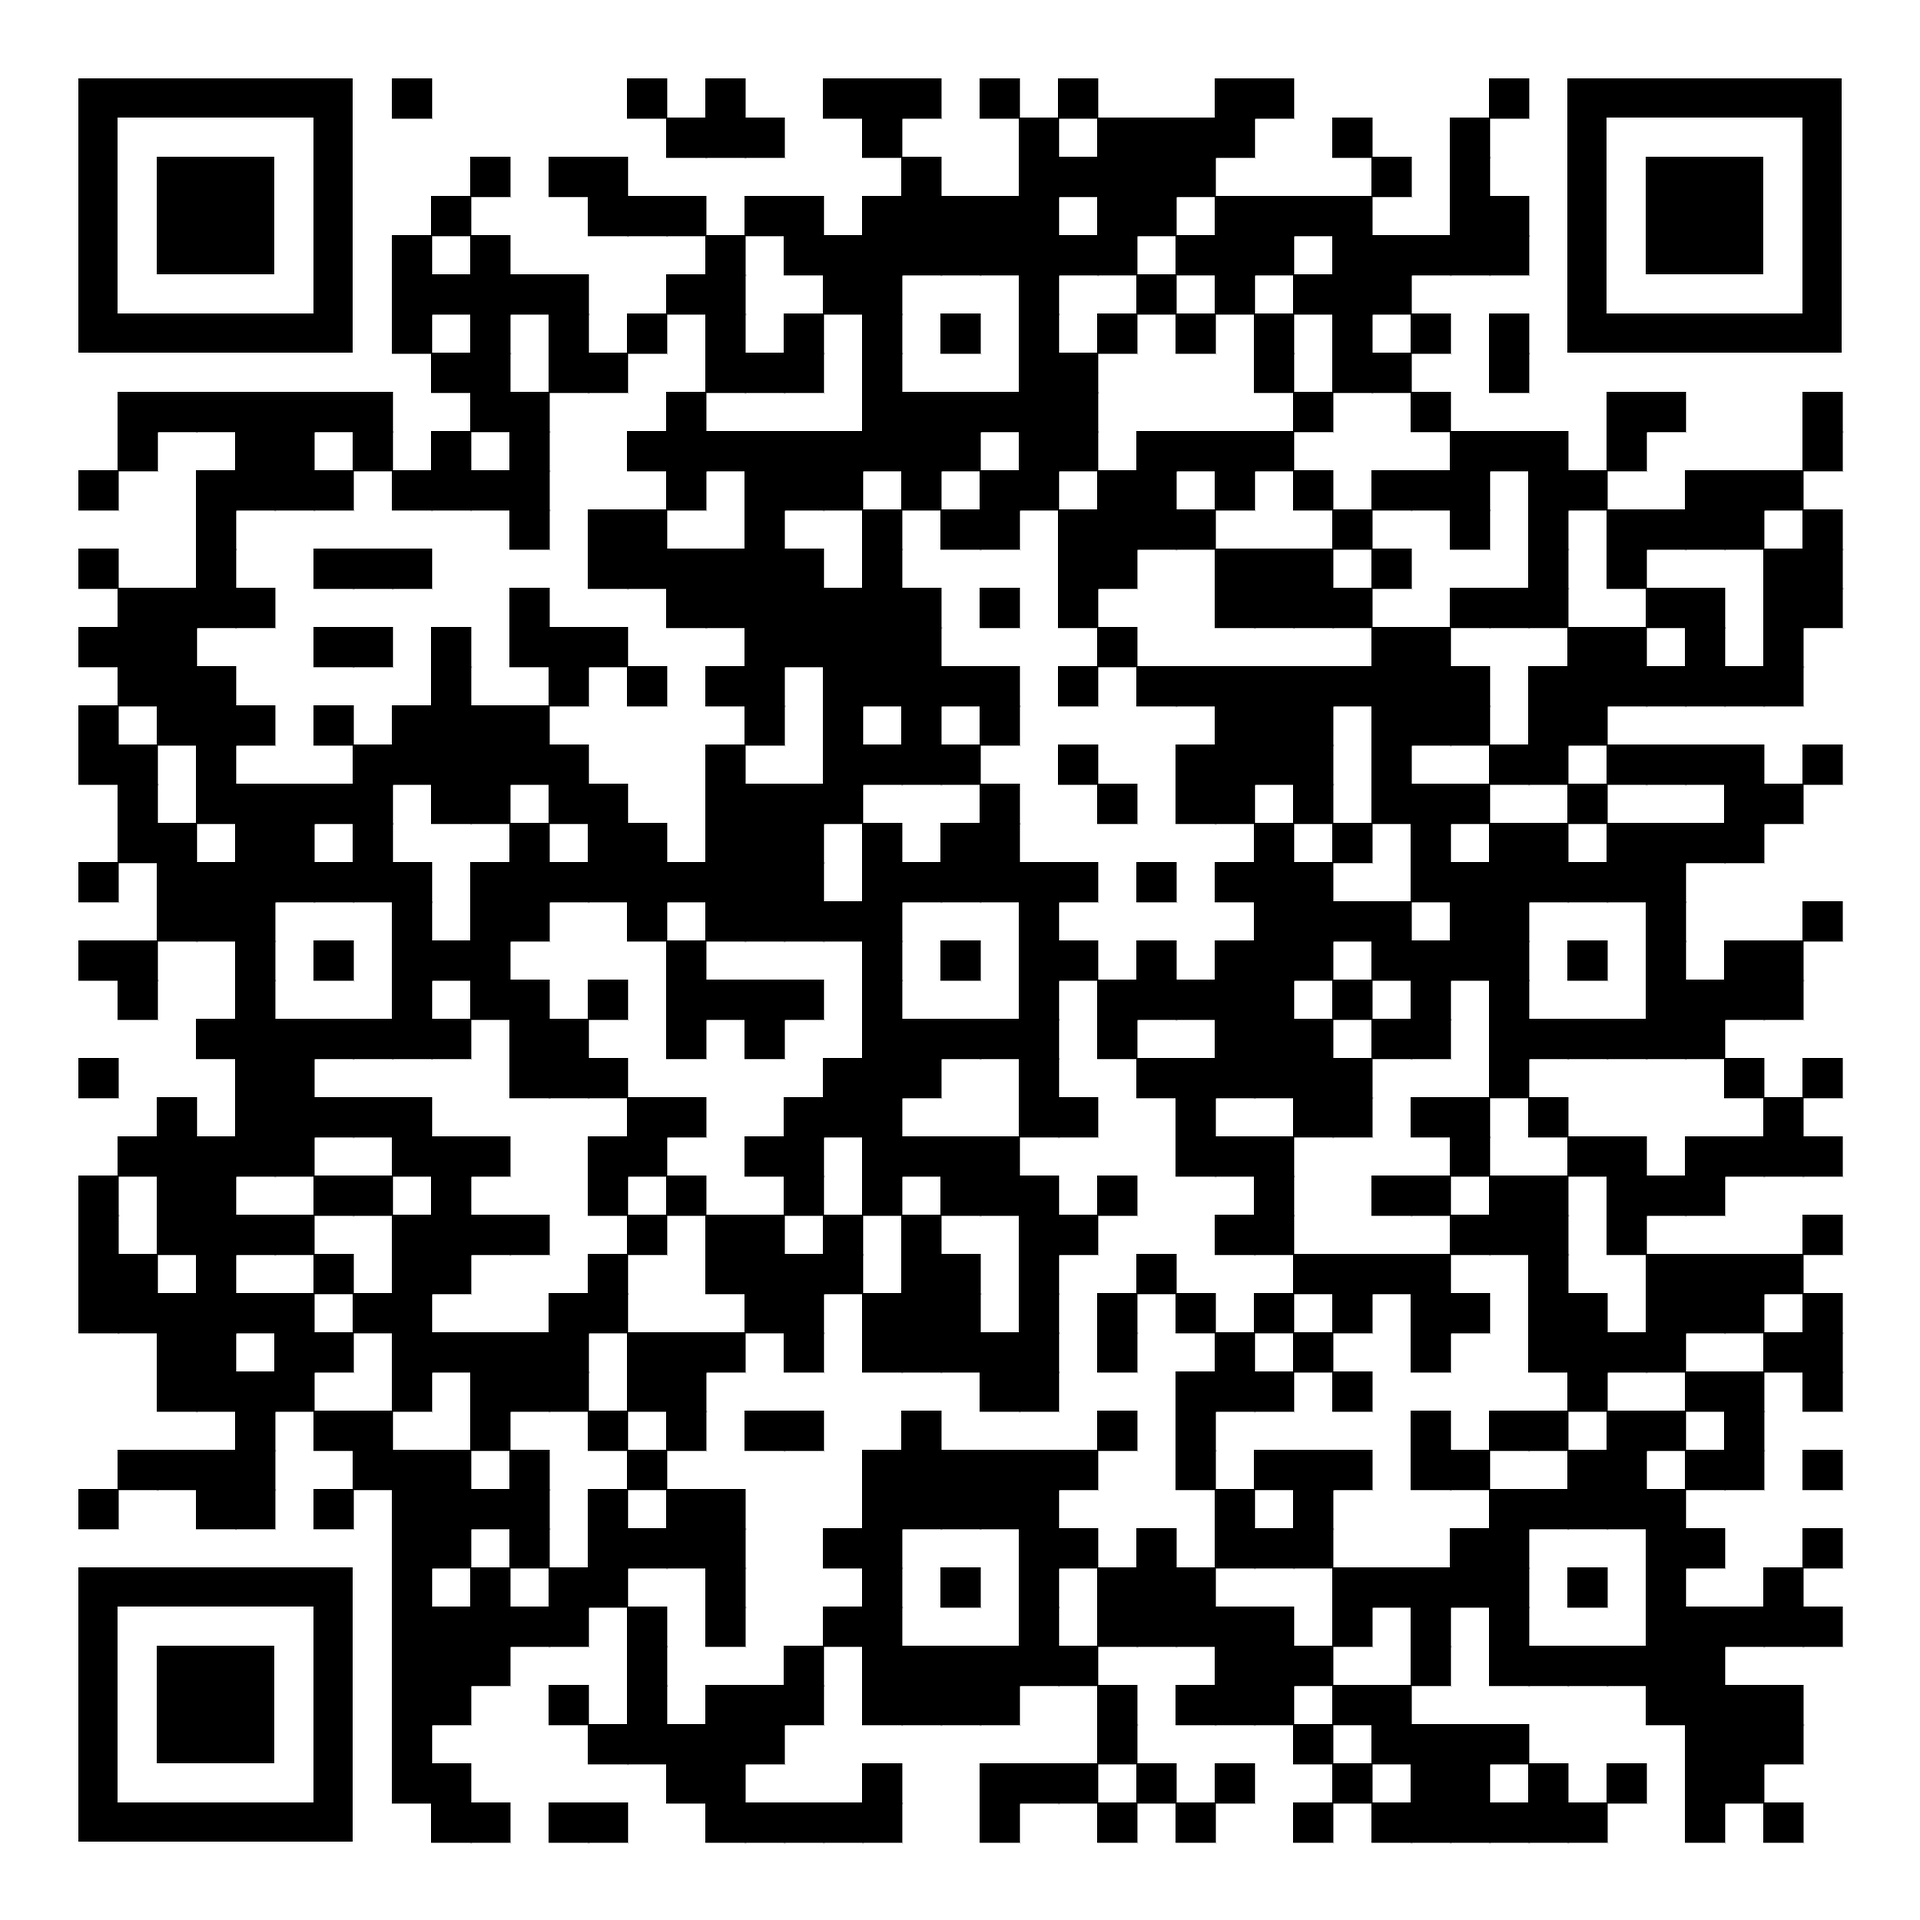
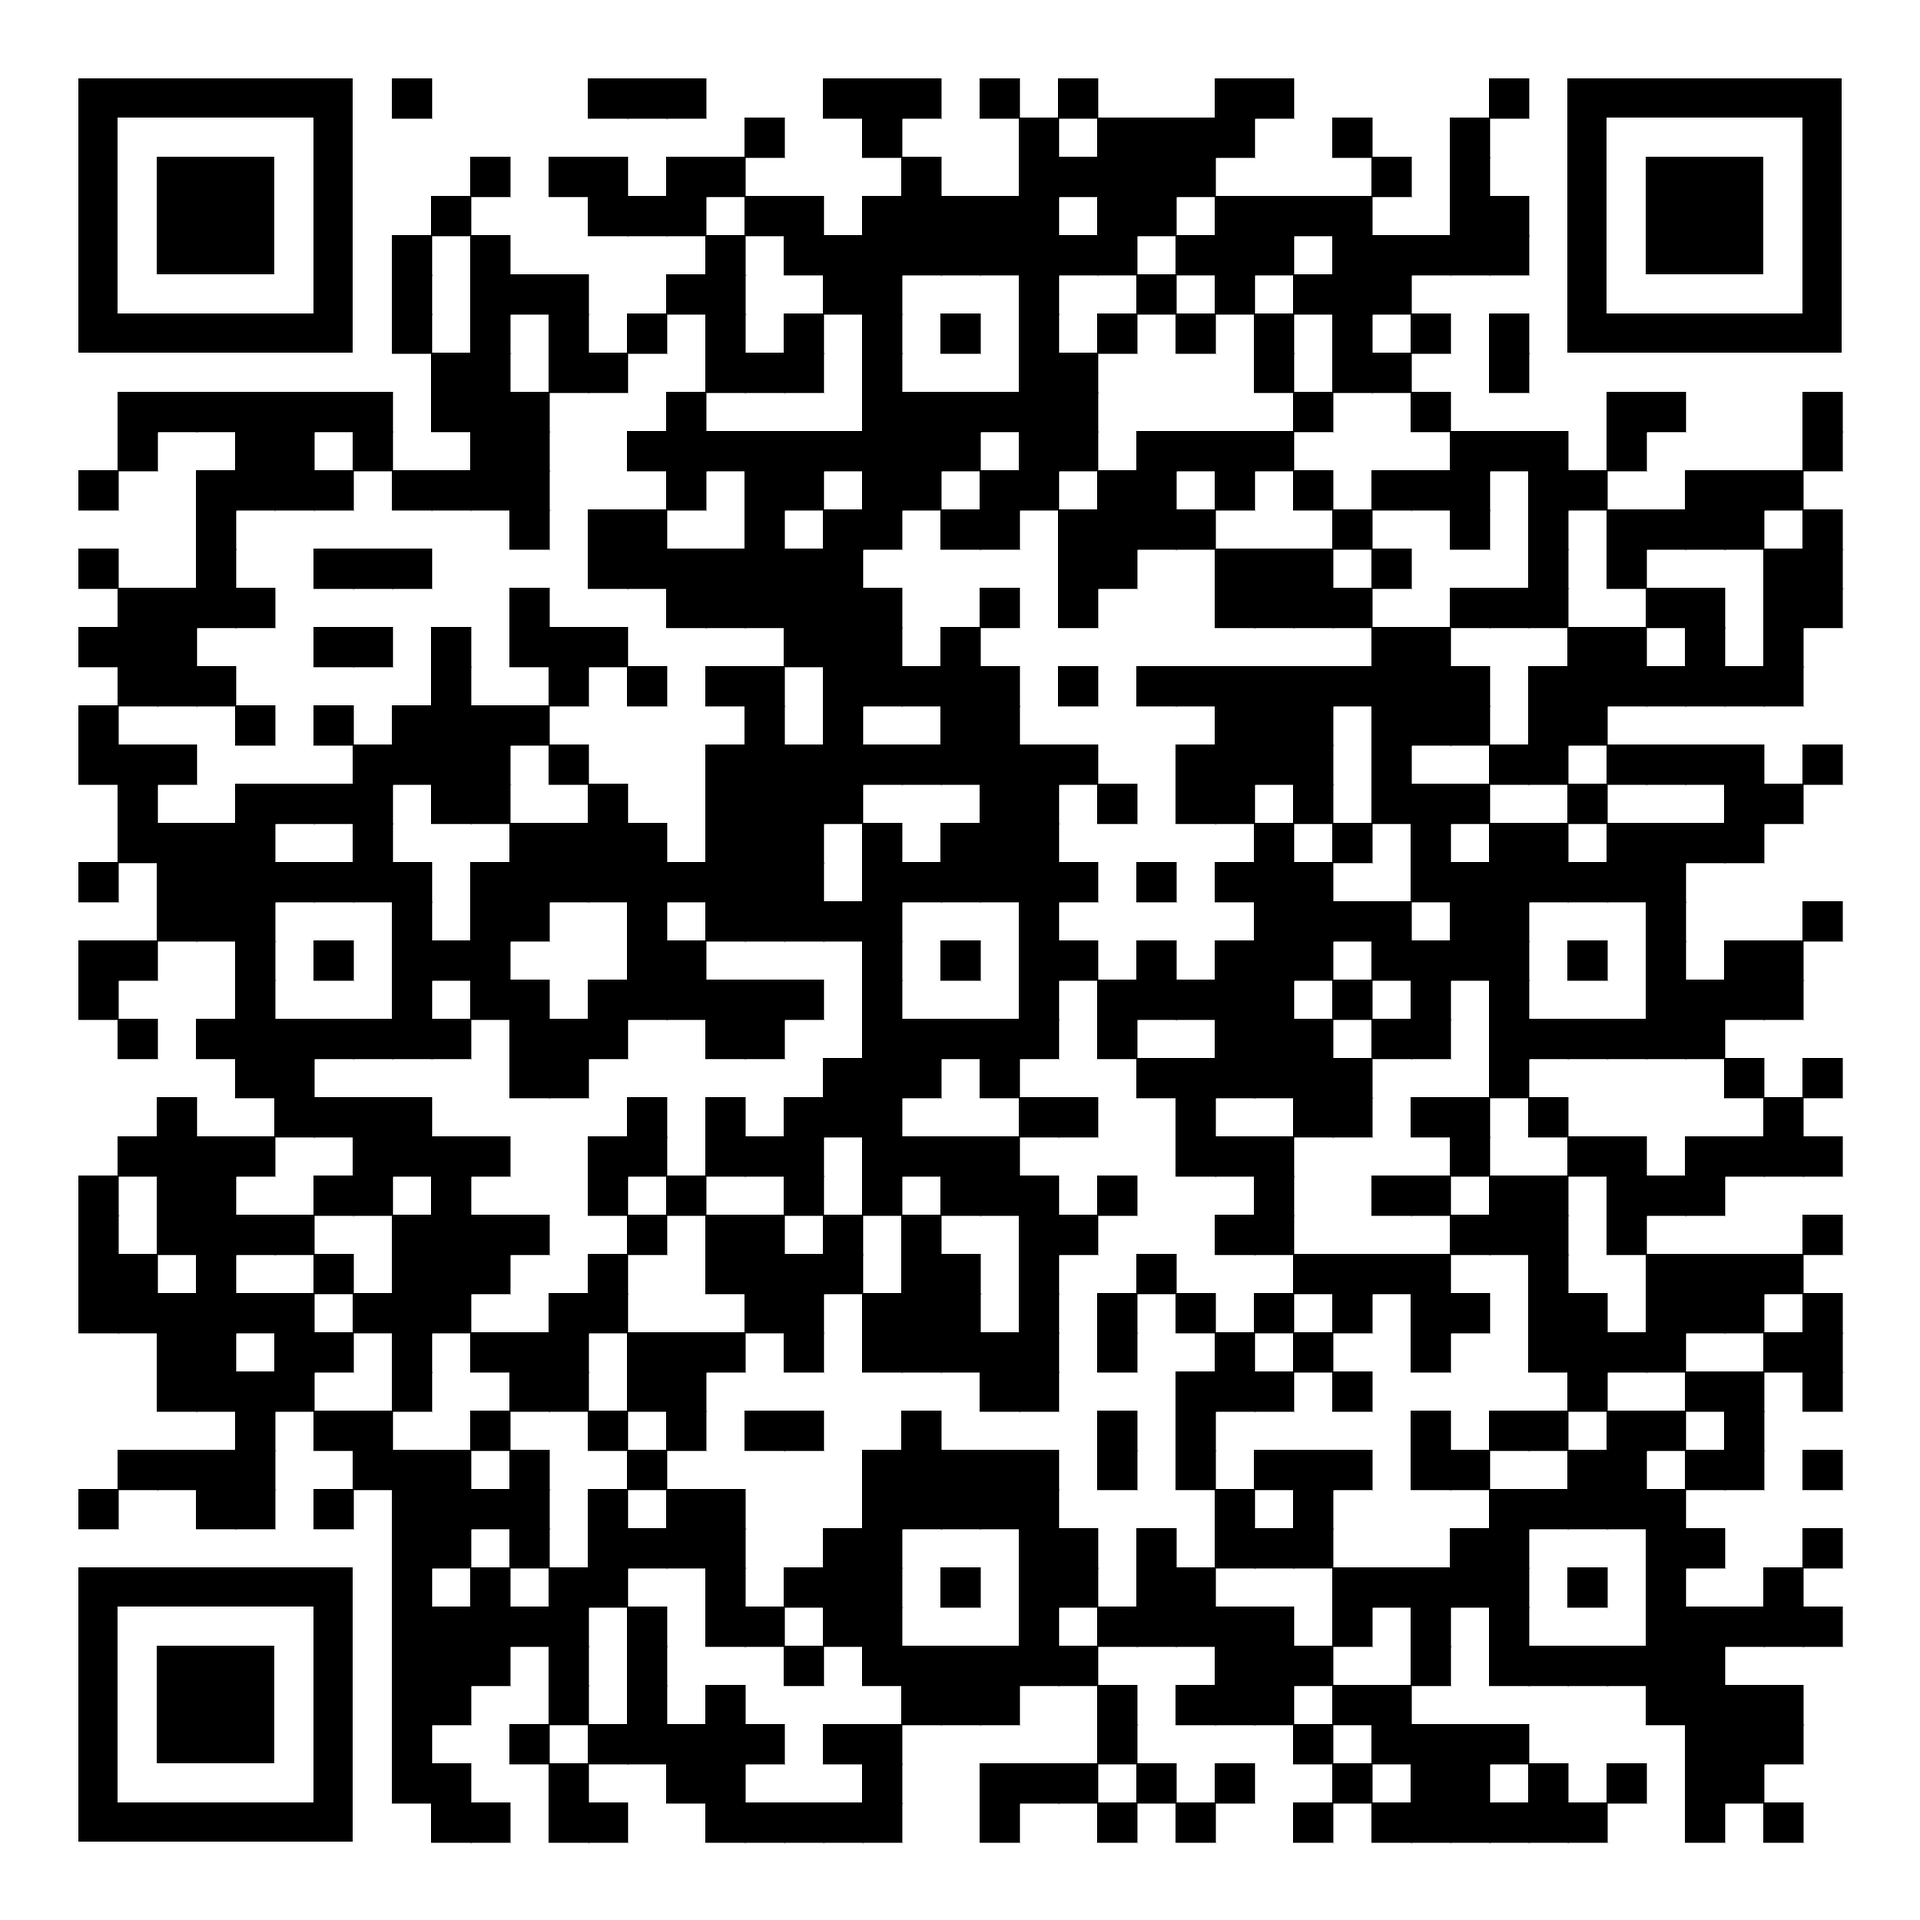
qr corregido

diff --git a/README.md b/README.md
@@ -12,5 +12,5 @@ Sitio Web del convertidor
 
 ## Web:
 
-https://hugocarregno.github.io/conversorUnidadesFisicas/conversordeunidades.html
+https://hugocarregno.github.io/conversorUnidadesFisicas/Conversordeunidades.html
 
